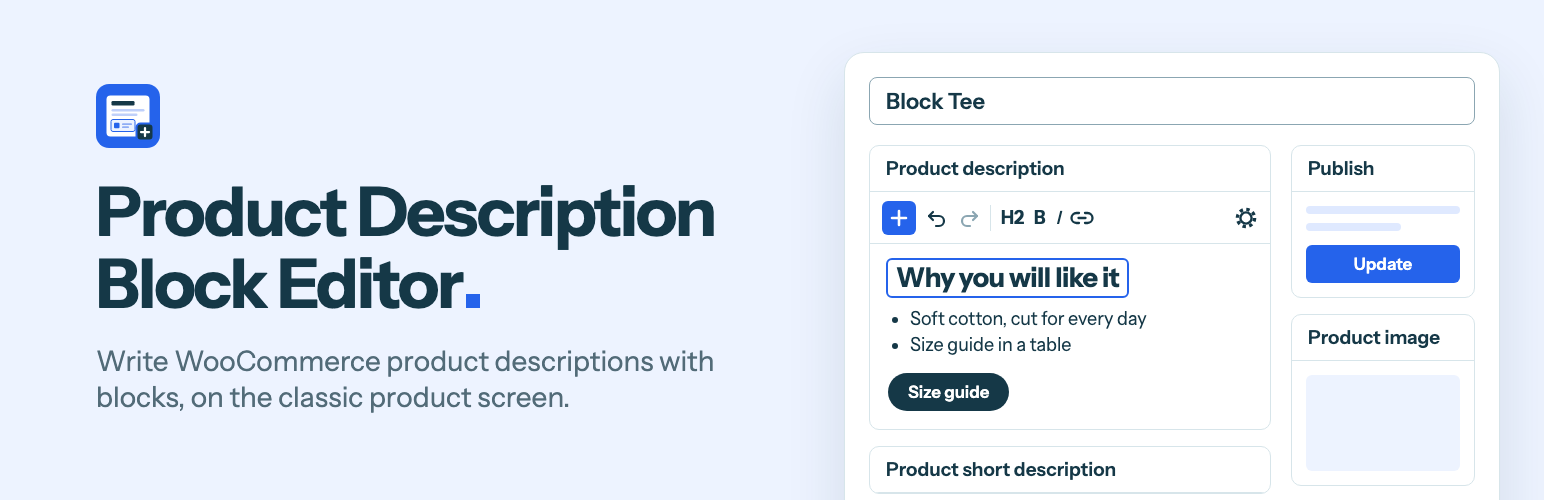
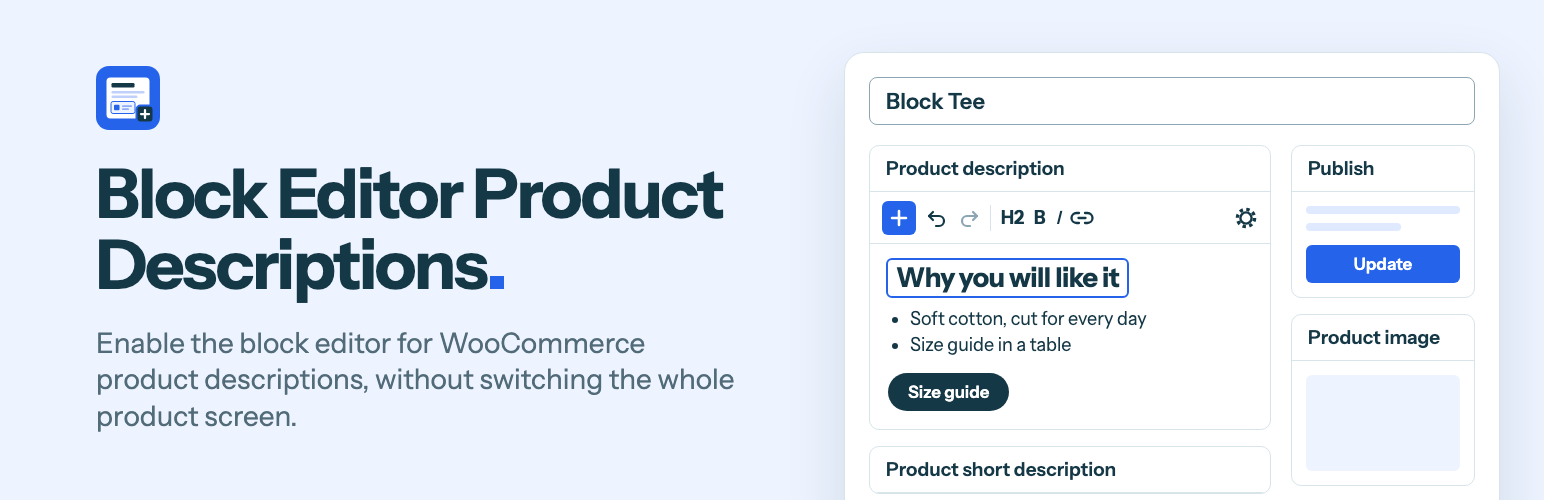
Rename the plugin to Block Editor Product Descriptions for WooCommerce
The WordPress.org review asked for a different name. This renames the main
file, the slug and the text domain, re-renders the directory banners, and
rewrites the one-line description around what people search for: enabling
the block editor (Gutenberg) for WooCommerce product descriptions. The
readme now says the plugin is independent, not an official WooCommerce
extension. Class names, hooks and CSS classes keep the pdblocks prefix.

Changed region(s): [[0.0622, 0.33, 0.4663, 0.63], [0.0622, 0.66, 0.4974, 0.87], [0.0622, 0.12, 0.1244, 0.3]]

diff --git a/assets/js/editor.js b/assets/js/editor.js
@@ -151,7 +151,7 @@
 								role: 'toolbar',
 								'aria-label': __(
 									'Editor tools',
-									'product-description-block-editor-for-woocommerce'
+									'block-editor-product-descriptions-for-woocommerce'
 								),
 							},
 							el( Inserter, {
@@ -164,7 +164,7 @@
 										icon: 'plus-alt2',
 										label: __(
 											'Add block',
-											'product-description-block-editor-for-woocommerce'
+											'block-editor-product-descriptions-for-woocommerce'
 										),
 										'aria-expanded': isOpen,
 										onClick: onToggle,
@@ -174,7 +174,7 @@
 							el( Button, {
 								size: 'compact',
 								icon: 'undo',
-								label: __( 'Undo', 'product-description-block-editor-for-woocommerce' ),
+								label: __( 'Undo', 'block-editor-product-descriptions-for-woocommerce' ),
 								onClick: history.undo,
 								disabled: ! history.hasUndo,
 								accessibleWhenDisabled: true,
@@ -182,7 +182,7 @@
 							el( Button, {
 								size: 'compact',
 								icon: 'redo',
-								label: __( 'Redo', 'product-description-block-editor-for-woocommerce' ),
+								label: __( 'Redo', 'block-editor-product-descriptions-for-woocommerce' ),
 								onClick: history.redo,
 								disabled: ! history.hasRedo,
 								accessibleWhenDisabled: true,
@@ -198,7 +198,7 @@
 								icon: 'admin-generic',
 								label: __(
 									'Block settings',
-									'product-description-block-editor-for-woocommerce'
+									'block-editor-product-descriptions-for-woocommerce'
 								),
 								isPressed: showSettings,
 								onClick: () => setShowSettings( ! showSettings ),
@@ -239,7 +239,7 @@
 										role: 'region',
 										'aria-label': __(
 											'Block settings',
-											'product-description-block-editor-for-woocommerce'
+											'block-editor-product-descriptions-for-woocommerce'
 										),
 									},
 									el( BlockInspector )

diff --git a/design/banner.html b/design/banner.html
@@ -2,7 +2,7 @@
 <html lang="en">
 <head>
 <meta charset="utf-8">
-<title>Product Description Block Editor for WooCommerce: directory banner</title>
+<title>Block Editor Product Descriptions for WooCommerce: directory banner</title>
 <!--
 	Source for .wordpress-org/banner-1544x500.png and banner-772x250.png.
 	Render at 1544x500, or add ?scale=0.5 and render at 772x250.
@@ -223,8 +223,8 @@
 <body>
 	<div class="copy">
 		<img src="../.wordpress-org/icon.svg" alt="">
-		<h1>Product Description Block Editor<span class="stop"></span></h1>
-		<p>Write WooCommerce product descriptions with blocks, on the classic product screen.</p>
+		<h1>Block Editor Product Descriptions<span class="stop"></span></h1>
+		<p>Enable the block editor for WooCommerce product descriptions, without switching the whole product screen.</p>
 	</div>
 
 	<div class="screen" aria-hidden="true">

diff --git a/includes/class-pdblocks-plugin.php b/includes/class-pdblocks-plugin.php
@@ -6,7 +6,7 @@
  * place. Each editor keeps its form field (`content`, `excerpt`) in sync as block markup, so both
  * are saved by the same form submission as the rest of the product.
  *
- * @package Product_Description_Block_Editor
+ * @package Block_Editor_Product_Descriptions
  */
 
 defined( 'ABSPATH' ) || exit;
@@ -217,7 +217,7 @@ final class PDBlocks_Plugin {
 		self::$editor_support_removed = true;
 		?>
 		<div id="postdivrich" class="postarea">
-			<?php self::render_field( 'content', get_post_field( 'post_content', $post->ID, 'raw' ), __( 'Product description', 'product-description-block-editor-for-woocommerce' ) ); ?>
+			<?php self::render_field( 'content', get_post_field( 'post_content', $post->ID, 'raw' ), __( 'Product description', 'block-editor-product-descriptions-for-woocommerce' ) ); ?>
 		</div>
 		<?php
 	}
@@ -260,7 +260,7 @@ final class PDBlocks_Plugin {
 	 * @param WP_Post $post The product being edited.
 	 */
 	public static function render_short_description_editor( $post ) {
-		self::render_field( 'excerpt', get_post_field( 'post_excerpt', $post->ID, 'raw' ), __( 'Product short description', 'product-description-block-editor-for-woocommerce' ) );
+		self::render_field( 'excerpt', get_post_field( 'post_excerpt', $post->ID, 'raw' ), __( 'Product short description', 'block-editor-product-descriptions-for-woocommerce' ) );
 	}
 
 	/**
@@ -454,7 +454,7 @@ final class PDBlocks_Plugin {
 			PDBLOCKS_VERSION,
 			true
 		);
-		wp_set_script_translations( 'pdblocks-editor', 'product-description-block-editor-for-woocommerce' );
+		wp_set_script_translations( 'pdblocks-editor', 'block-editor-product-descriptions-for-woocommerce' );
 
 		$settings = get_block_editor_settings( array(), new WP_Block_Editor_Context( array( 'post' => $post ) ) );
 
@@ -467,11 +467,11 @@ final class PDBlocks_Plugin {
 				'fields'    => array(
 					'content' => array(
 						'allowedBlockTypes' => self::get_allowed_block_types( 'description' ),
-						'placeholder'       => __( 'Describe this product, or type / to choose a block', 'product-description-block-editor-for-woocommerce' ),
+						'placeholder'       => __( 'Describe this product, or type / to choose a block', 'block-editor-product-descriptions-for-woocommerce' ),
 					),
 					'excerpt' => array(
 						'allowedBlockTypes' => self::get_allowed_block_types( 'short_description' ),
-						'placeholder'       => __( 'Sum this product up, or type / to choose a block', 'product-description-block-editor-for-woocommerce' ),
+						'placeholder'       => __( 'Sum this product up, or type / to choose a block', 'block-editor-product-descriptions-for-woocommerce' ),
 					),
 				),
 			)

diff --git a/block-editor-product-descriptions-for-woocommerce.php b/block-editor-product-descriptions-for-woocommerce.php
@@ -1,8 +1,8 @@
 <?php
 /**
- * Plugin Name: Product Description Block Editor for WooCommerce
- * Plugin URI: https://github.com/danielk-am/product-description-block-editor-for-woocommerce
- * Description: Write product descriptions and short descriptions with blocks on the classic product screen. Only those two boxes change: everything else saves the way it always has.
+ * Plugin Name: Block Editor Product Descriptions for WooCommerce
+ * Plugin URI: https://github.com/danielk-am/block-editor-product-descriptions-for-woocommerce
+ * Description: Enable the block editor (Gutenberg) for WooCommerce product descriptions and short descriptions, without switching the whole product screen.
  * Version: 1.0.0
  * Requires at least: 7.0
  * Requires PHP: 7.4
@@ -11,11 +11,11 @@
  * Author URI: https://danielk.am
  * License: GPL-2.0-or-later
  * License URI: https://www.gnu.org/licenses/gpl-2.0.html
- * Text Domain: product-description-block-editor-for-woocommerce
+ * Text Domain: block-editor-product-descriptions-for-woocommerce
  * WC requires at least: 11.1
  * WC tested up to: 11.1
  *
- * @package Product_Description_Block_Editor
+ * @package Block_Editor_Product_Descriptions
  */
 
 defined( 'ABSPATH' ) || exit;

diff --git a/tests/run.php b/tests/run.php
@@ -3,7 +3,7 @@
  * Plugin checks, run inside a WordPress admin request on a disposable site.
  * Plain assertions, so they run without the WordPress test suite. Not shipped in the release ZIP.
  *
- * @package Product_Description_Block_Editor
+ * @package Block_Editor_Product_Descriptions
  */
 
 defined( 'ABSPATH' ) || exit;

diff --git a/tests/seed.php b/tests/seed.php
@@ -3,7 +3,7 @@
  * Synthetic catalogue for manual and browser checks on a disposable site.
  * Not shipped in the release ZIP.
  *
- * @package Product_Description_Block_Editor
+ * @package Block_Editor_Product_Descriptions
  */
 
 defined( 'ABSPATH' ) || exit;

diff --git a/README.md b/README.md
@@ -1,8 +1,8 @@
-![Product Description Block Editor for WooCommerce: write WooCommerce product descriptions with blocks, on the classic product screen.](.wordpress-org/banner-1544x500.png)
+![Block Editor Product Descriptions for WooCommerce: enable the block editor for WooCommerce product descriptions, without switching the whole product screen.](.wordpress-org/banner-1544x500.png)
 
-# Product Description Block Editor for WooCommerce
+# Block Editor Product Descriptions for WooCommerce
 
-Write WooCommerce product descriptions and short descriptions with blocks, on the classic product screen.
+Enable the block editor (Gutenberg) for WooCommerce product descriptions and short descriptions, without switching the whole product screen.
 
 Activate the plugin and the two description boxes become block editors. You get headings, lists, images, tables, buttons and columns in your product copy. The rest of the screen stays where it is: Product data, the publish box, the gallery, categories and the meta boxes your extensions add.
 
@@ -39,20 +39,20 @@ WordPress 7.0 or later, WooCommerce 11.1 or later, PHP 7.4 or later. Tested on W
 
 ## Install
 
-Build the plugin as shown below, zip `build/product-description-block-editor-for-woocommerce`, and upload it under Plugins > Add Plugin > Upload Plugin. Or copy that folder into `wp-content/plugins`.
+Build the plugin as shown below, zip `build/block-editor-product-descriptions-for-woocommerce`, and upload it under Plugins > Add Plugin > Upload Plugin. Or copy that folder into `wp-content/plugins`.
 
 ## Develop and test
 
 Build the files that ship, without tests, design sources or repo files:
 
 ```bash
-rsync -a --delete --exclude-from=.distignore ./ build/product-description-block-editor-for-woocommerce/
+rsync -a --delete --exclude-from=.distignore ./ build/block-editor-product-descriptions-for-woocommerce/
 ```
 
 Start a disposable store with [WordPress Playground](https://wordpress.github.io/wordpress-playground/). It installs WooCommerce and Plugin Check, adds Google for WooCommerce for the feed checks, mounts the build and logs you in:
 
 ```bash
-npx @wp-playground/cli@3.1.56 server --port=9402 --workers=1 --login --blueprint=./tests/blueprint.json --mount=./build/product-description-block-editor-for-woocommerce:/wordpress/wp-content/plugins/product-description-block-editor-for-woocommerce --mount=./tests:/wordpress/wp-content/pdblocks-tests
+npx @wp-playground/cli@3.1.56 server --port=9402 --workers=1 --login --blueprint=./tests/blueprint.json --mount=./build/block-editor-product-descriptions-for-woocommerce:/wordpress/wp-content/plugins/block-editor-product-descriptions-for-woocommerce --mount=./tests:/wordpress/wp-content/pdblocks-tests
 ```
 
 Then, in the browser:
